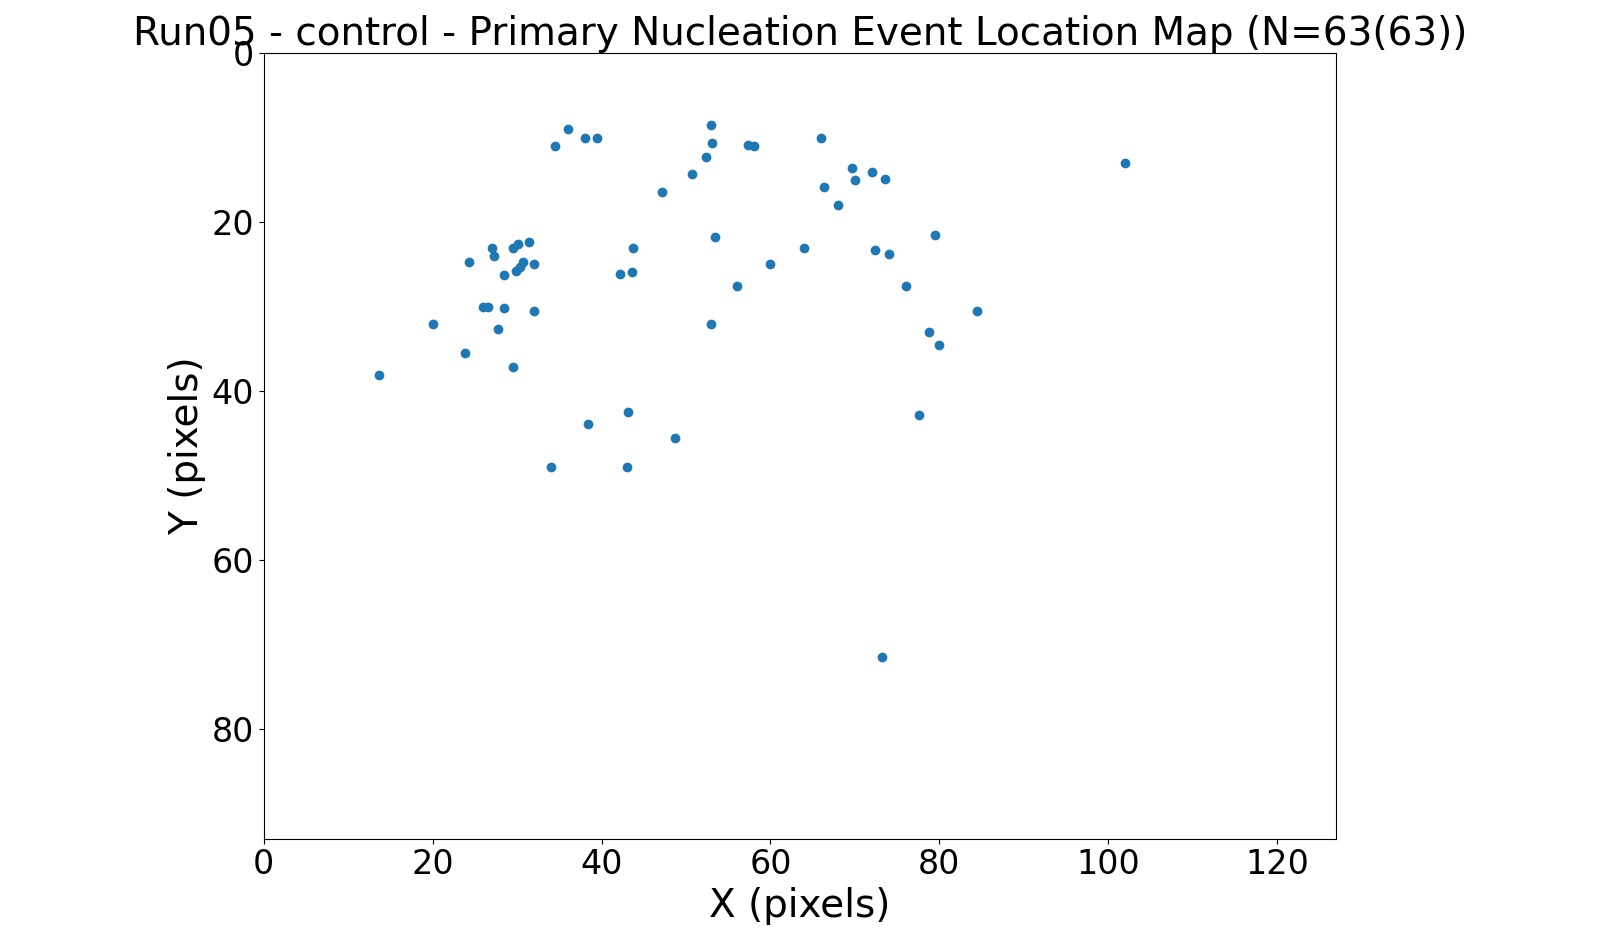
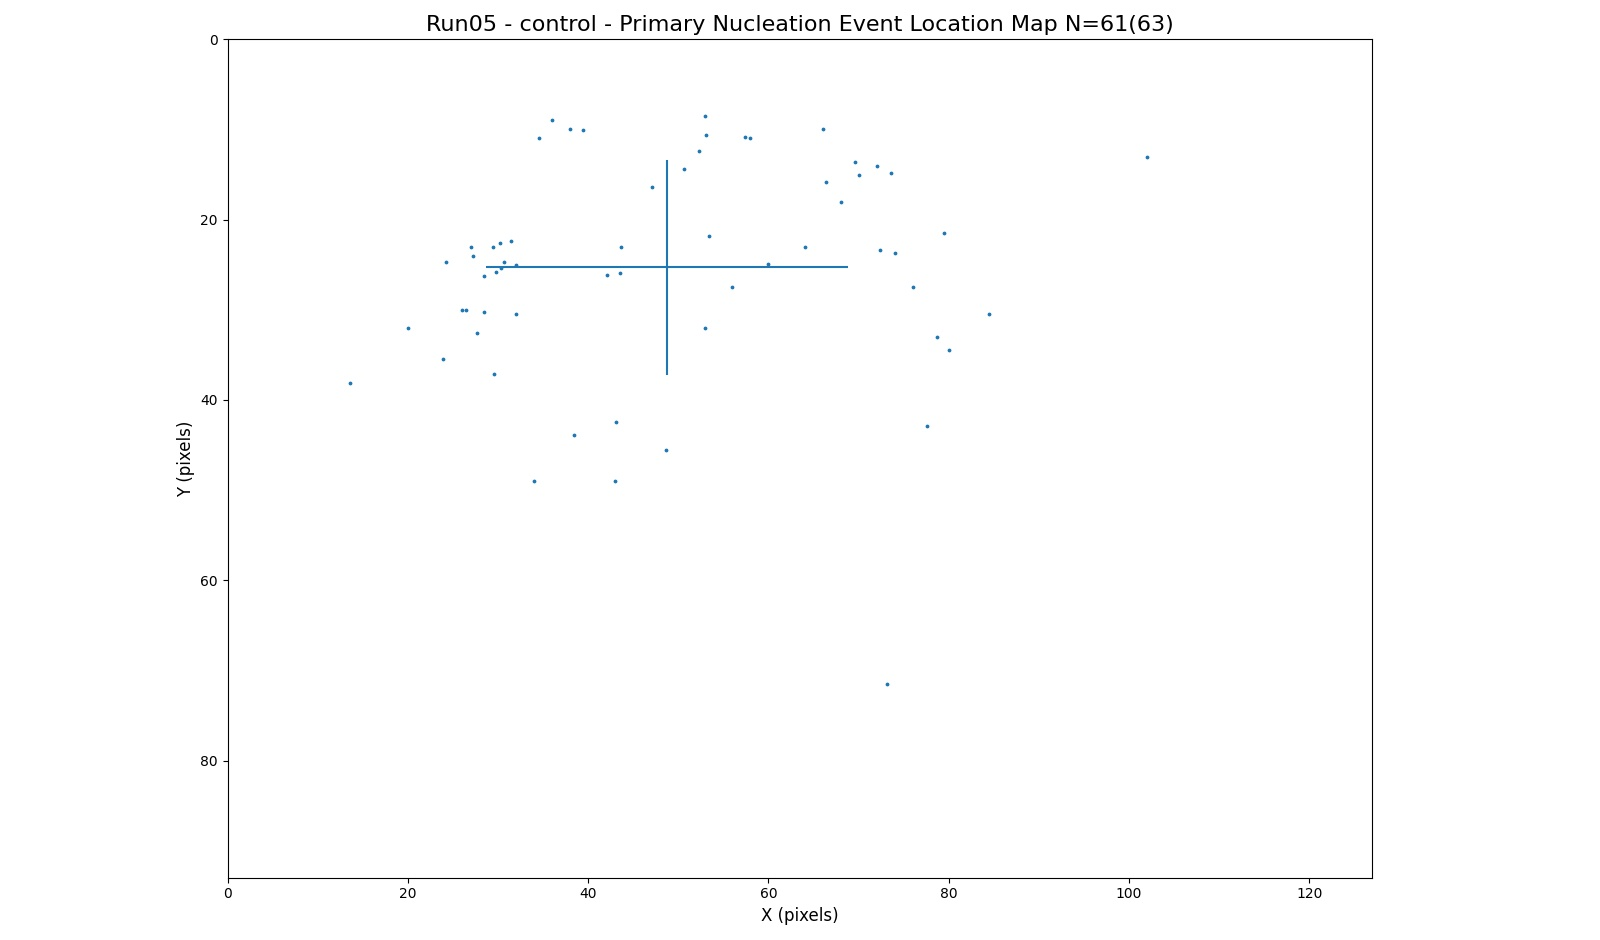
10 14 21 4

diff --git a/sandbox8.py b/sandbox8.py
@@ -206,12 +206,12 @@ github_path, this_repo_name = os.path.split(this_repo_path) # gets the users git
 data_repo_name = "Snowball9"
 data_repo_path = github_path + os.path.sep + data_repo_name
 data_folder_name = 'SNOWBALL CROPPED IMAGES'
-folder = 'Run06'
+folder = 'Run03'
 runNames = glob.glob(data_repo_path + os.path.sep +data_folder_name + os.path.sep + folder + os.path.sep + '*')
 for i in range(len(runNames)):
     runNames[i] = os.path.basename(runNames[i])
 # print(runNames)
-runNames = ['Cs-137'] # the short name of the folder containing images (tif files)
+runNames = ['control'] # the short name of the folder containing images (tif files)
 notesContent = []
 for runName in runNames:
     Images3 = []
@@ -289,13 +289,13 @@ for runName in runNames:
         labels.append(eventLabel)
         backCheck = False
         staticBoy = True
-        histLeng = 50
+        histLeng = detectedFrame - 5
         thresh = 200
         blur = 9
         startingAt = 0
         openYorN = False
         theseImages = extractForegroundMask(False,backCheck,staticBoy,thisEventImages,histLeng,thresh,blur,startingAt)
-        modifyingTitle = 'X(false,'+','.join([str(holding).lower() for holding in [backCheck,staticBoy,histLeng,thresh,blur,startingAt]])+')'
+        modifyingTitle = 'X(false,'+','.join([str(holding).lower() for holding in [backCheck,staticBoy,'detectedFrame-5',thresh,blur,startingAt]])+')'
         # modifyingTitle = 'X(false,false,true,50,100,15,0)'
         # theseImages = thisEvent1
         tStamp = []
@@ -389,17 +389,21 @@ for runName in runNames:
     cbar.ax.tick_params(labelsize=12) 
     plt.xlim(0,len(newImage[0])-1)
     plt.ylim(len(newImage)-2,0)
-    plt.xlabel('X (pixels)',fontsize=28)
-    plt.ylabel('Y (pixels)',fontsize=28)
-    plt.xticks(fontsize=24)
-    plt.yticks(fontsize=24)
-    plt.text(1,len(Images3[0])-5,str(round(np.mean(codeFrame),2))+'+/-'+str(round(np.std(codeFrame),2)),fontsize = 30, c='w')
-    plt.title(folder+' - '+runNames[0]+' - Snowball Nucleation Net Heat Map (N='+str(len(eventPrefixes))+')',fontsize=28)
+    plt.xlabel('X (pixels)',fontsize=12)
+    plt.ylabel('Y (pixels)',fontsize=12)
+    plt.xticks(fontsize=10)
+    plt.yticks(fontsize=10)
+    plt.xlim(0,len(newImage[0])-1)
+    plt.ylim(len(newImage)-2,0)
+    # plt.title(folder+' - '+runNames[0]+' - Primary Nucleation Event Location Map N='+str(len(yPos))+'('+str(len(eventPrefixes))+')',fontsize=16)
+    fig.tight_layout()
+    plt.text(1,len(Images3[0])-5,str(round(np.mean(codeFrame),2))+'+/-'+str(round(np.std(codeFrame),2)),fontsize = 16, c='w')
+    plt.title(folder+' - '+runNames[0]+' - Snowball Nucleation Net Heat Map (N='+str(len(eventPrefixes))+')',fontsize=16)
     fig.tight_layout()
     plt.savefig(this_repo_path+os.path.sep+folder+' - '+runNames[0]+' - heat map ALL - '+modifyingTitle+'.jpg')
     fig = plt.figure(figsize=(len(Images3[0][0])/10*np.ceil(np.sqrt(len(eventPrefixes))),len(Images3[0])/10*np.ceil(np.sqrt(len(eventPrefixes)))))
     plt.clf()
-    xPos,yPos=[],[]
+    xPos,yPos,posName=[],[],[]
     for eventNumber in range(len(Images3)):
         subPlot = plt.subplot(int(np.ceil(np.sqrt(numEvents))),int(np.ceil(np.sqrt(numEvents))),eventNumber+1)
         subPlot.axis('scaled')
@@ -424,15 +428,19 @@ for runName in runNames:
             cx = np.sum(np.multiply(x[:-1],newImage1))/np.sum(newImage1)
             yPos.append(cy)
             xPos.append(cx)
+            posName.append(str(eventNumber + 1))
+            plt.hlines(cy,0,len(newImage[0]),colors=['w'])
+            plt.vlines(cx,0,len(newImage),colors=['w'])
         heatmap, xedges, yedges,placeholder = plt.hist2d(x.flatten(), y.flatten(), bins=(len(newImage[0]),len(newImage)),density=False,weights=newImage.flatten(),cmap=plt.cm.nipy_spectral)
         # plt.colorbar()
         # if (eventNumber == 1):
-        plt.hlines(cy,0,len(newImage[0]),colors=['w'])
-        plt.vlines(cx,0,len(newImage),colors=['w'])
         # print(cx,cy)
         plt.xlim(0,len(newImage[0])-1)
         plt.ylim(len(newImage)-2,0)
         plt.axis('off')
+    # xPos = xPos[1:]
+    # yPos = yPos[1:]
+    # posName = posName[1:]
     plt.suptitle(folder+' - '+runNames[0]+' - Snowball Nucleation Event Heat Maps (N='+str(len(eventPrefixes))+')',fontsize=125,y=.992)
     fig.tight_layout()
     plt.savefig(this_repo_path+os.path.sep+folder+' - '+runNames[0]+' - event heat maps - '+modifyingTitle+'.jpg')
@@ -440,15 +448,18 @@ for runName in runNames:
     fig = plt.figure(figsize=(len(Images3[0][0])/8,len(Images3[0])/10))
     plt.clf()
     plt.axis('scaled')
-    plt.scatter(xPos,yPos,s=3)
-    plt.errorbar([np.mean(xPos)],[np.mean(yPos)],yerr=np.std(yPos),xerr=np.std(xPos))
-    plt.xlabel('X (pixels)',fontsize=12)
-    plt.ylabel('Y (pixels)',fontsize=12)
-    plt.xticks(fontsize=10)
-    plt.yticks(fontsize=10)
+    plt.scatter(xPos,yPos,s=45,marker='.',c='r',label='Primary Nucleation\nEvent Locations')
+    # for i in range(len(xPos)):
+    #     plt.text(xPos[i],yPos[i],posName[i],fontsize=10,ha='right',va='bottom')
+    plt.errorbar([np.mean(xPos)],[np.mean(yPos)],yerr=np.std(yPos),xerr=np.std(xPos),label='X='+str(round(np.mean(xPos),1))+'+/-'+str(round(np.std(xPos),1))+'\nY='+str(round(np.mean(yPos),1))+'+/-'+str(round(np.std(yPos),1)),elinewidth=2,capsize=5,capthick=2,marker='.',ms=15,linewidth=0)
+    plt.xlabel('X (pixels)',fontsize=20)
+    plt.ylabel('Y (pixels)',fontsize=20)
+    plt.xticks(fontsize=16)
+    plt.yticks(fontsize=16)
     plt.xlim(0,len(newImage[0])-1)
     plt.ylim(len(newImage)-2,0)
-    plt.title(folder+' - '+runNames[0]+' - Primary Nucleation Event Location Map N='+str(len(yPos))+'('+str(len(eventPrefixes))+')',fontsize=16)
+    plt.legend(fontsize=16,labelspacing=1)
+    plt.title(folder+' - '+runNames[0]+' - Primary Nucleation Event Location Map N='+str(len(yPos))+'('+str(len(eventPrefixes))+')',fontsize=24)
     fig.tight_layout()
     plt.savefig(this_repo_path+os.path.sep+folder+' - '+runNames[0]+' - event location scatter.jpg')
     if False:
